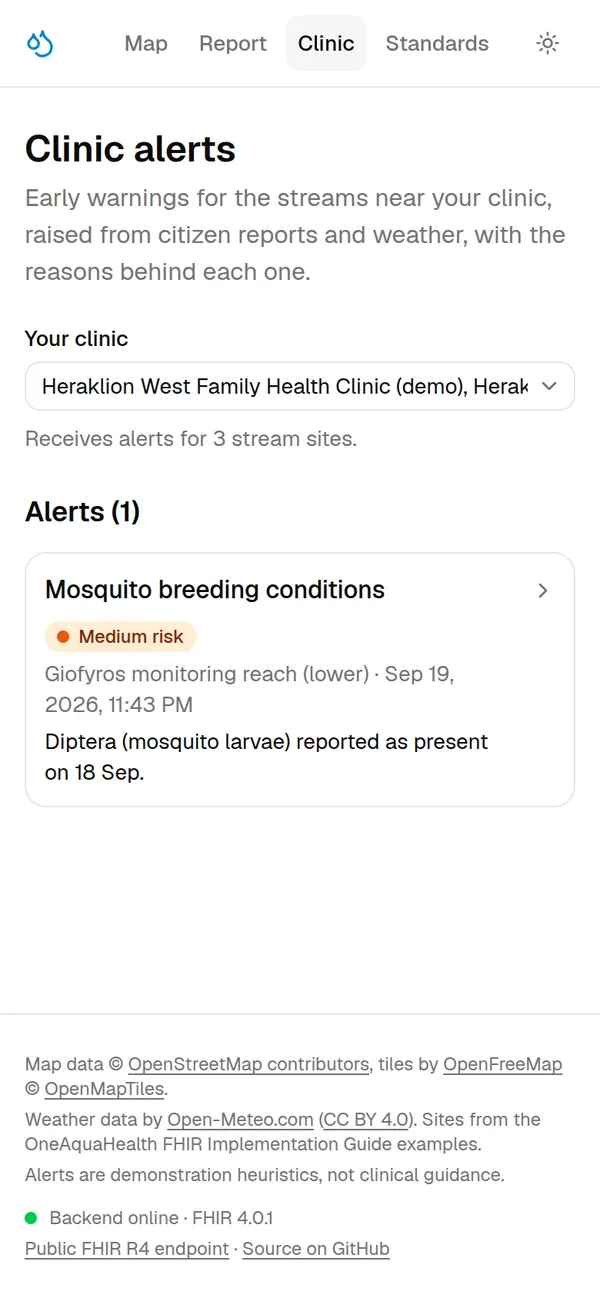
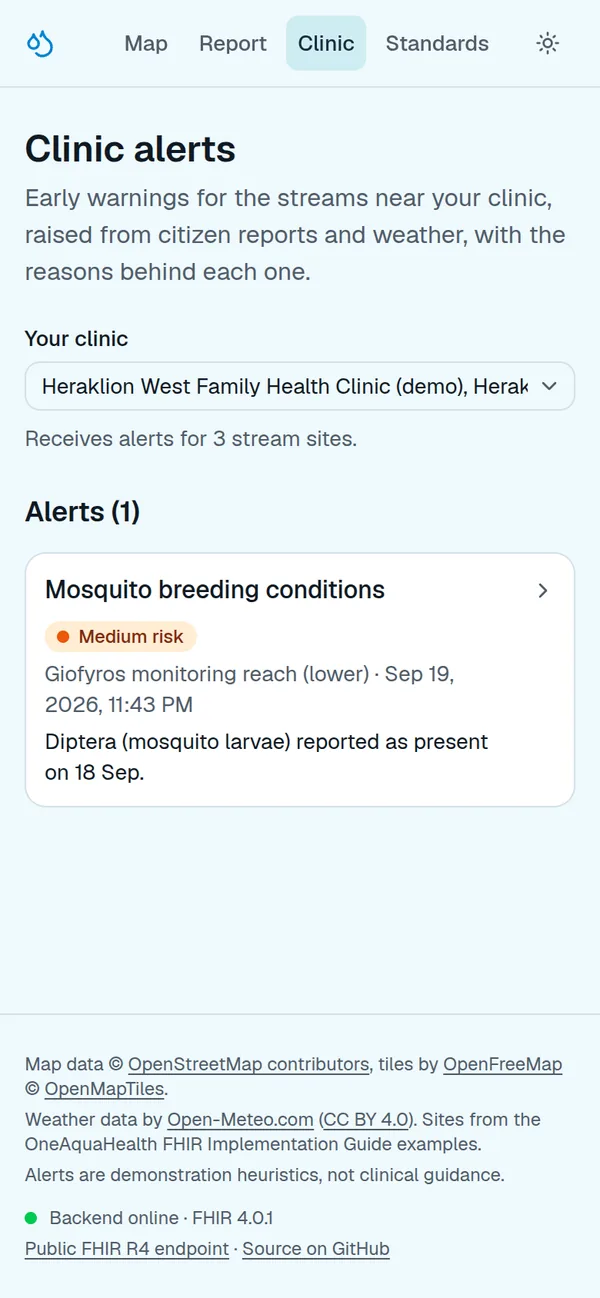
Use one colourful basemap and a softer page palette
The dark basemap and the muted grey styles lost the greenery and water
that make a river-health map readable. Use OpenFreeMap "liberty" in both
app themes, keep the controls and marker labels light on top of it, and
drop country and capital labels from bold to regular at 85% size so they
stop competing with the site markers.

Retint the colour tokens on hue 225: a soft water-tinted background with
white cards, and a blue primary instead of near-black. axe still reports
0 violations on all pages in both themes.

diff --git a/web/src/app/globals.css b/web/src/app/globals.css
@@ -52,72 +52,74 @@
 }
 
 :root {
-  --background: oklch(1 0 0);
-  --foreground: oklch(0.145 0 0);
+  /* Soft water-tinted neutrals: the page reads as a calm backdrop and cards,
+     which stay white, lift off it. Hue 225 throughout so tints never clash. */
+  --background: oklch(0.975 0.012 225);
+  --foreground: oklch(0.21 0.025 250);
   --card: oklch(1 0 0);
-  --card-foreground: oklch(0.145 0 0);
+  --card-foreground: oklch(0.21 0.025 250);
   --popover: oklch(1 0 0);
-  --popover-foreground: oklch(0.145 0 0);
-  --primary: oklch(0.205 0 0);
-  --primary-foreground: oklch(0.985 0 0);
-  --secondary: oklch(0.97 0 0);
-  --secondary-foreground: oklch(0.205 0 0);
-  --muted: oklch(0.97 0 0);
-  --muted-foreground: oklch(0.556 0 0);
-  --accent: oklch(0.97 0 0);
-  --accent-foreground: oklch(0.205 0 0);
-  --destructive: oklch(0.577 0.245 27.325);
-  --border: oklch(0.922 0 0);
-  --input: oklch(0.922 0 0);
-  --ring: oklch(0.708 0 0);
-  --chart-1: oklch(0.87 0 0);
-  --chart-2: oklch(0.556 0 0);
-  --chart-3: oklch(0.439 0 0);
-  --chart-4: oklch(0.371 0 0);
-  --chart-5: oklch(0.269 0 0);
+  --popover-foreground: oklch(0.21 0.025 250);
+  --primary: oklch(0.52 0.105 228);
+  --primary-foreground: oklch(0.99 0.005 225);
+  --secondary: oklch(0.945 0.018 225);
+  --secondary-foreground: oklch(0.3 0.035 248);
+  --muted: oklch(0.95 0.014 225);
+  --muted-foreground: oklch(0.47 0.025 248);
+  --accent: oklch(0.925 0.032 210);
+  --accent-foreground: oklch(0.28 0.04 248);
+  --destructive: oklch(0.55 0.21 27);
+  --border: oklch(0.9 0.016 228);
+  --input: oklch(0.9 0.016 228);
+  --ring: oklch(0.62 0.09 228);
+  --chart-1: oklch(0.62 0.11 228);
+  --chart-2: oklch(0.55 0.02 248);
+  --chart-3: oklch(0.44 0.02 248);
+  --chart-4: oklch(0.37 0.02 248);
+  --chart-5: oklch(0.27 0.02 248);
   --radius: 0.625rem;
-  --sidebar: oklch(0.985 0 0);
-  --sidebar-foreground: oklch(0.145 0 0);
-  --sidebar-primary: oklch(0.205 0 0);
-  --sidebar-primary-foreground: oklch(0.985 0 0);
-  --sidebar-accent: oklch(0.97 0 0);
-  --sidebar-accent-foreground: oklch(0.205 0 0);
-  --sidebar-border: oklch(0.922 0 0);
-  --sidebar-ring: oklch(0.708 0 0);
+  --sidebar: oklch(0.975 0.012 225);
+  --sidebar-foreground: oklch(0.21 0.025 250);
+  --sidebar-primary: oklch(0.52 0.105 228);
+  --sidebar-primary-foreground: oklch(0.99 0.005 225);
+  --sidebar-accent: oklch(0.945 0.018 225);
+  --sidebar-accent-foreground: oklch(0.3 0.035 248);
+  --sidebar-border: oklch(0.9 0.016 228);
+  --sidebar-ring: oklch(0.62 0.09 228);
 }
 
 [data-theme="dark"] {
-  --background: oklch(0.145 0 0);
-  --foreground: oklch(0.985 0 0);
-  --card: oklch(0.205 0 0);
-  --card-foreground: oklch(0.985 0 0);
-  --popover: oklch(0.205 0 0);
-  --popover-foreground: oklch(0.985 0 0);
-  --primary: oklch(0.922 0 0);
-  --primary-foreground: oklch(0.205 0 0);
-  --secondary: oklch(0.269 0 0);
-  --secondary-foreground: oklch(0.985 0 0);
-  --muted: oklch(0.269 0 0);
-  --muted-foreground: oklch(0.708 0 0);
-  --accent: oklch(0.269 0 0);
-  --accent-foreground: oklch(0.985 0 0);
-  --destructive: oklch(0.704 0.191 22.216);
-  --border: oklch(1 0 0 / 10%);
-  --input: oklch(1 0 0 / 15%);
-  --ring: oklch(0.556 0 0);
-  --chart-1: oklch(0.87 0 0);
-  --chart-2: oklch(0.556 0 0);
-  --chart-3: oklch(0.439 0 0);
-  --chart-4: oklch(0.371 0 0);
-  --chart-5: oklch(0.269 0 0);
-  --sidebar: oklch(0.205 0 0);
-  --sidebar-foreground: oklch(0.985 0 0);
-  --sidebar-primary: oklch(0.488 0.243 264.376);
-  --sidebar-primary-foreground: oklch(0.985 0 0);
-  --sidebar-accent: oklch(0.269 0 0);
-  --sidebar-accent-foreground: oklch(0.985 0 0);
-  --sidebar-border: oklch(1 0 0 / 10%);
-  --sidebar-ring: oklch(0.556 0 0);
+  --background: oklch(0.175 0.018 250);
+  --foreground: oklch(0.97 0.006 240);
+  --card: oklch(0.228 0.02 250);
+  --card-foreground: oklch(0.97 0.006 240);
+  --popover: oklch(0.228 0.02 250);
+  --popover-foreground: oklch(0.97 0.006 240);
+  --primary: oklch(0.74 0.105 225);
+  --primary-foreground: oklch(0.19 0.03 250);
+  --secondary: oklch(0.29 0.024 250);
+  --secondary-foreground: oklch(0.97 0.006 240);
+  --muted: oklch(0.29 0.024 250);
+  --muted-foreground: oklch(0.73 0.02 245);
+  --accent: oklch(0.32 0.035 235);
+  --accent-foreground: oklch(0.97 0.006 240);
+  --destructive: oklch(0.7 0.19 22);
+  --border: oklch(1 0 0 / 12%);
+  --input: oklch(1 0 0 / 16%);
+  --ring: oklch(0.6 0.07 228);
+  --chart-1: oklch(0.72 0.11 228);
+  --chart-2: oklch(0.6 0.02 245);
+  --chart-3: oklch(0.5 0.02 245);
+  --chart-4: oklch(0.4 0.02 245);
+  --chart-5: oklch(0.3 0.02 245);
+  --sidebar: oklch(0.228 0.02 250);
+  --sidebar-foreground: oklch(0.97 0.006 240);
+  --sidebar-primary: oklch(0.74 0.105 225);
+  --sidebar-primary-foreground: oklch(0.19 0.03 250);
+  --sidebar-accent: oklch(0.29 0.024 250);
+  --sidebar-accent-foreground: oklch(0.97 0.006 240);
+  --sidebar-border: oklch(1 0 0 / 12%);
+  --sidebar-ring: oklch(0.6 0.07 228);
 }
 
 @layer base {
@@ -148,36 +150,4 @@
     transition-duration: 0.01ms !important;
     scroll-behavior: auto !important;
   }
-}
-/* MapLibre ships light-only chrome. Recolour its controls, attribution bar and
-   two-finger gesture hint from the app's tokens so the dark map has no white box.
-   The selectors match MapLibre's own two-class specificity, since its stylesheet
-   is imported from the map component and lands after this file. */
-[data-theme="dark"] .maplibregl-ctrl-group {
-  background: var(--card);
-}
-[data-theme="dark"] .maplibregl-ctrl-group button + button {
-  border-top-color: var(--border);
-}
-[data-theme="dark"] .maplibregl-ctrl-group button:not(:disabled):hover {
-  background: var(--muted);
-}
-[data-theme="dark"] .maplibregl-ctrl-group button .maplibregl-ctrl-icon {
-  filter: invert(1);
-}
-[data-theme="dark"] .maplibregl-ctrl.maplibregl-ctrl-attrib,
-[data-theme="dark"] .maplibregl-ctrl-attrib.maplibregl-compact {
-  background-color: color-mix(in oklch, var(--background) 80%, transparent);
-  color: var(--muted-foreground);
-}
-[data-theme="dark"] .maplibregl-ctrl-attrib a {
-  color: var(--foreground);
-}
-[data-theme="dark"] .maplibregl-ctrl-attrib.maplibregl-compact::after,
-[data-theme="dark"] .maplibregl-ctrl-attrib-button {
-  filter: invert(1);
-}
-[data-theme="dark"] .maplibregl-cooperative-gesture-screen {
-  background: color-mix(in oklch, var(--background) 70%, transparent);
-  color: var(--foreground);
 }

diff --git a/web/src/components/map/site-map.tsx b/web/src/components/map/site-map.tsx
@@ -14,11 +14,10 @@ import MapGL, {
 } from "react-map-gl/maplibre";
 import { MaximizeIcon } from "lucide-react";
 import { RISK } from "@/lib/format";
-import { useTheme } from "@/hooks/use-theme";
 import type { SiteSummary } from "@/lib/types";
 import { cn } from "@/lib/utils";
 import { clusterSites, type SiteCluster } from "./cluster";
-import { STYLE_URL, applyOneLanguageLabels } from "./map-style";
+import { STYLE_URL, applyLabelStyle } from "./map-style";
 
 // Copied into public/ by scripts/copy-maplibre-worker.mjs; the bundled default URL does not resolve.
 setWorkerUrl(`/maplibre/${getVersion()}/maplibre-gl-worker.mjs`);
@@ -46,7 +45,6 @@ export default function SiteMap({ sites, selectedId, onSelect }: Props) {
   const [map, setMap] = useState<MapRef | null>(null);
   // Clustering depends on scale only, so the markers are recomputed on zoom, not on every pan frame.
   const [zoom, setZoom] = useState<number | null>(null);
-  const theme = useTheme();
   const selected = sites.find((s) => s.id === selectedId);
 
   const clusters = useMemo(
@@ -86,7 +84,7 @@ export default function SiteMap({ sites, selectedId, onSelect }: Props) {
     <MapGL
       ref={setMap}
       initialViewState={initialViewState}
-      mapStyle={STYLE_URL[theme]}
+      mapStyle={STYLE_URL}
       style={{ width: "100%", height: "100%" }}
       minZoom={2}
       maxZoom={16}
@@ -97,9 +95,9 @@ export default function SiteMap({ sites, selectedId, onSelect }: Props) {
       cooperativeGestures={typeof window !== "undefined" && window.matchMedia("(pointer: coarse)").matches}
       onLoad={(event: MapEvent) => {
         setZoom(event.target.getZoom());
-        applyOneLanguageLabels(event.target);
+        applyLabelStyle(event.target);
       }}
-      onStyleData={(event: MapStyleDataEvent) => applyOneLanguageLabels(event.target)}
+      onStyleData={(event: MapStyleDataEvent) => applyLabelStyle(event.target)}
       onZoom={(event: ViewStateChangeEvent) => setZoom(event.viewState.zoom)}
     >
       <NavigationControl position="top-right" showCompass={false} />
@@ -109,7 +107,7 @@ export default function SiteMap({ sites, selectedId, onSelect }: Props) {
         <button
           type="button"
           onClick={fitAll}
-          className="absolute top-2 left-2 inline-flex items-center gap-1.5 rounded-lg border bg-background/90 px-2 py-1.5 text-xs font-medium shadow-sm backdrop-blur transition-colors hover:bg-background focus-visible:ring-3 focus-visible:ring-ring/50 focus-visible:outline-none"
+          className="absolute top-2 left-2 inline-flex items-center gap-1.5 rounded-lg border border-slate-300 bg-white/90 px-2 py-1.5 text-xs font-medium text-slate-900 shadow-sm backdrop-blur transition-colors hover:bg-white focus-visible:ring-3 focus-visible:ring-sky-500/50 focus-visible:outline-none"
         >
           <MaximizeIcon className="size-3.5" aria-hidden />
           All sites
@@ -156,7 +154,7 @@ export default function SiteMap({ sites, selectedId, onSelect }: Props) {
               </button>
               {showLabel && (
                 <span
-                  className="pointer-events-none absolute top-1/2 left-full ml-2 -translate-y-1/2 rounded-md bg-background/85 px-1.5 py-0.5 text-xs font-medium whitespace-nowrap shadow-sm backdrop-blur-[2px]"
+                  className="pointer-events-none absolute top-1/2 left-full ml-2 -translate-y-1/2 rounded-md bg-white/85 px-1.5 py-0.5 text-xs font-medium text-slate-900 whitespace-nowrap shadow-sm backdrop-blur-[2px]"
                   aria-hidden
                 >
                   {cluster.sites[0].name}

diff --git a/web/src/components/map/map-style.ts b/web/src/components/map/map-style.ts
@@ -1,12 +1,8 @@
 import type { ExpressionSpecification, Map as MapLibreMap } from "maplibre-gl";
-import type { Theme } from "@/lib/theme";
 
-// OpenFreeMap's two minimal basemaps: no points of interest, muted colours, so the
-// site markers and risk colours stay the loudest thing on the map.
-export const STYLE_URL: Record<Theme, string> = {
-  light: "https://tiles.openfreemap.org/styles/positron",
-  dark: "https://tiles.openfreemap.org/styles/dark",
-};
+// One basemap for both app themes: Liberty keeps the green of parks and forests
+// and the blue of rivers and sea, which is the point of a river-health map.
+export const STYLE_URL = "https://tiles.openfreemap.org/styles/liberty";
 
 // The shipped styles label places as "Ηράκλειο\nIraklio": the latin name and the
 // local-script name stacked. One language is enough here, and English first.
@@ -18,18 +14,42 @@ const LATIN_NAME: ExpressionSpecification = [
 ];
 const LATIN_NAME_JSON = JSON.stringify(LATIN_NAME);
 
-export function applyOneLanguageLabels(map: MapLibreMap) {
+// Liberty sets country and capital labels in bold at up to 17px, which shouts over
+// the site markers. Regular weight at 85% keeps them readable but in the background.
+const BOLD_FONT = "Noto Sans Bold";
+const REGULAR_FONT = ["Noto Sans Regular"];
+const LABEL_SCALE = 0.85;
+
+export function applyLabelStyle(map: MapLibreMap) {
   const style = map.getStyle();
   if (!style?.layers) return;
 
   for (const layer of style.layers) {
     if (layer.type !== "symbol") continue;
-    const textField = layer.layout?.["text-field"];
-    if (!textField) continue;
-    const current = JSON.stringify(textField);
+    const layout = layer.layout;
+    if (!layout) continue;
+
+    const textField = layout["text-field"];
     // Only the bilingual name labels; road shields and house numbers are left alone,
     // and our own replacement has no "name:nonlatin", so this never loops.
-    if (!current.includes("name:nonlatin") || current === LATIN_NAME_JSON) continue;
-    map.setLayoutProperty(layer.id, "text-field", LATIN_NAME);
+    if (textField) {
+      const current = JSON.stringify(textField);
+      if (current.includes("name:nonlatin") && current !== LATIN_NAME_JSON) {
+        map.setLayoutProperty(layer.id, "text-field", LATIN_NAME);
+      }
+    }
+
+    // As unknown: narrowing text-font in place makes TypeScript expand its union.
+    const font: unknown = layout["text-font"];
+    // Swapping the font away from bold is also the guard: on a repeat call (every
+    // styledata event) the layer no longer matches, so the size is scaled once.
+    if (!Array.isArray(font) || !font.includes(BOLD_FONT)) continue;
+    map.setLayoutProperty(layer.id, "text-font", REGULAR_FONT);
+    const textSize = layout["text-size"];
+    if (textSize === undefined) continue;
+    // Multiplying keeps whatever zoom curve the style author wrote; the cast is
+    // needed because text-size is a union wide enough to defeat inference.
+    const scaled: unknown = ["*", textSize as unknown, LABEL_SCALE];
+    map.setLayoutProperty(layer.id, "text-size", scaled as ExpressionSpecification);
   }
 }

diff --git a/web/src/components/map/map-dashboard.tsx b/web/src/components/map/map-dashboard.tsx
@@ -92,7 +92,7 @@ function Legend({ sites }: { sites: SiteSummary[] }) {
   const count = (level: RiskLevel) => sites.filter((s) => s.riskLevel === level).length;
   return (
     // bottom-9 on phones keeps it off the full-width map attribution bar.
-    <div className="pointer-events-none absolute bottom-9 left-2 rounded-lg border bg-background/90 p-2 text-xs shadow-sm backdrop-blur sm:bottom-2">
+    <div className="pointer-events-none absolute bottom-9 left-2 rounded-lg border border-slate-300 bg-white/90 p-2 text-xs text-slate-900 shadow-sm backdrop-blur sm:bottom-2">
       <p className="mb-1 font-medium">Sites by risk</p>
       <ul className="flex gap-2.5 sm:block sm:space-y-0.5">
         {RISK_LEVELS.map((level) => (
@@ -103,7 +103,7 @@ function Legend({ sites }: { sites: SiteSummary[] }) {
               aria-hidden
             />
             <span className="tabular-nums">{count(level)}</span>
-            <span className="hidden text-muted-foreground sm:inline">{RISK[level].label.toLowerCase()}</span>
+            <span className="hidden text-slate-600 sm:inline">{RISK[level].label.toLowerCase()}</span>
           </li>
         ))}
       </ul>

diff --git a/web/src/components/site-header.tsx b/web/src/components/site-header.tsx
@@ -45,8 +45,8 @@ export function SiteHeader() {
                     href={href}
                     aria-current={active ? "page" : undefined}
                     className={cn(
-                      "inline-flex h-9 items-center rounded-md px-2 text-sm sm:px-3 font-medium transition-colors hover:bg-muted focus-visible:ring-3 focus-visible:ring-ring/50 focus-visible:outline-none",
-                      active ? "bg-muted text-foreground" : "text-muted-foreground",
+                      "inline-flex h-9 items-center rounded-md px-2 text-sm sm:px-3 font-medium transition-colors hover:bg-accent focus-visible:ring-3 focus-visible:ring-ring/50 focus-visible:outline-none",
+                      active ? "bg-accent text-accent-foreground" : "text-muted-foreground",
                     )}
                   >
                     {label}

diff --git a/docs/ARCHITECTURE.md b/docs/ARCHITECTURE.md
@@ -35,9 +35,9 @@ HAPI ── rest-hook Subscription (internal network) ──► API /hooks/obser
 |---|---|---|---|
 | Frontend framework | Next.js (App Router) | 16.3 | Hosted on Vercel Hobby, root directory `web/` |
 | UI runtime | React | 19.2 | Version pinned by Next.js |
-| Styling | Tailwind CSS | 4 | Light and dark themes chosen by the user: `data-theme` on `<html>` drives the tokens and the `dark:` variant, an inline script in the root layout applies the saved choice before the first paint, and "system" follows the OS. Preference in `localStorage`, toggle in the header (`src/lib/theme.ts`, `src/hooks/use-theme.ts`) |
+| Styling | Tailwind CSS | 4 | Soft water-tinted background with white cards (all tokens on hue 225). Light and dark themes chosen by the user: `data-theme` on `<html>` drives the tokens and the `dark:` variant, an inline script in the root layout applies the saved choice before the first paint, and "system" follows the OS. Preference in `localStorage`, toggle in the header (`src/lib/theme.ts`, `src/hooks/use-theme.ts`) |
 | UI components | shadcn/ui (`base-nova`, Base UI primitives) + lucide icons | CLI 4.21 | Copied into `web/src/components/ui`; `cn` package for class merging |
-| Maps | MapLibre GL + `react-map-gl/maplibre` + OpenFreeMap `positron` / `dark` tiles | 6.10 / 8.1 | No API key; OSM attribution shown. The basemap follows the app theme (the two minimal OpenFreeMap styles, no points of interest). Place labels ship as "latin\nlocal script"; `map-style.ts` rewrites every `text-field` to one language (`name:en` → `name:latin` → `name`). Sites closer together than 44 px at the current zoom are drawn as one counted cluster marker (`cluster.ts`) so nearby sites cannot hide each other; markers are recomputed on zoom, not on every pan frame. Two-finger gestures on touch devices. MapLibre 6 finds its worker via `import.meta.url`, which bundling breaks, so `scripts/copy-maplibre-worker.mjs` copies it to `public/maplibre/<version>/` before `dev`/`build` |
+| Maps | MapLibre GL + `react-map-gl/maplibre` + OpenFreeMap `liberty` tiles | 6.10 / 8.1 | No API key; OSM attribution shown. One colourful basemap in both app themes, so water and vegetation stay recognisable on a river-health map; the controls and labels drawn over it are light in both themes. Country and capital labels are dropped from bold to regular at 85% size so the site markers stay dominant (`map-style.ts`). Place labels ship as "latin\nlocal script"; `map-style.ts` rewrites every `text-field` to one language (`name:en` → `name:latin` → `name`). Sites closer together than 44 px at the current zoom are drawn as one counted cluster marker (`cluster.ts`) so nearby sites cannot hide each other; markers are recomputed on zoom, not on every pan frame. Two-finger gestures on touch devices. MapLibre 6 finds its worker via `import.meta.url`, which bundling breaks, so `scripts/copy-maplibre-worker.mjs` copies it to `public/maplibre/<version>/` before `dev`/`build` |
 | Charts | Recharts | 3.10 | Site trend charts |
 | PWA | Serwist (`@serwist/turbopack` + `serwist`) | 9.5 | Linked from the Next.js PWA guide (Turbopack variant; `next-pwa` is abandoned). `app/sw.ts` is bundled with esbuild and served at `/serwist/sw.js`; precaches the app shell and `/report`, caches API reads network-first, and serves `/~offline` for unvisited pages. Manifest from `app/manifest.ts`, icons from `scripts/make-icons.mjs` |
 | Offline report queue | `idb-keyval` | 6.3 | Reports made offline wait in IndexedDB and are sent on the `online` event or the next app load; no Background Sync dependency |

diff --git a/docs/PLAN.md b/docs/PLAN.md
@@ -10,7 +10,7 @@ Tech stack, infrastructure and deployment are described in [ARCHITECTURE.md](ARC
 - **Done:** Stages 0–7, and the Stage 8 documents (README, SUBMISSION.md, DEMO_SCRIPT.md). Installable PWA with offline report queue, report photos (`Media` + `Binary`), alert narrative, FHIR rest-hook Subscription, accessibility pass, code-review fixes. Everything is live.
 - **Validation:** CI checks resources from the real API code against the OAH IG: 0 errors.
 - **Next (user):** record the demo video from [DEMO_SCRIPT.md](DEMO_SCRIPT.md), add its link to [SUBMISSION.md](SUBMISSION.md), submit on Devpost before Sep 30, 9:00 PM PDT.
-- **Also done:** site FHIR `Bundle` export, a `/standards` page for judges, and a UI pass on the map and themes (Stage 7).
+- **Also done:** site FHIR `Bundle` export, a `/standards` page for judges, and a UI pass on the map, themes and colours (Stage 7).
 - **Optional if time remains:** SMART on FHIR launch; review leftovers: alert reason dates in UTC, 200-item cap on alert/communication lists.
 - **Live:** frontend https://stream-to-clinic.vercel.app · API https://oneaquahealth.duckdns.org · FHIR https://oneaquahealth.duckdns.org/fhir/metadata
 - **Demo note:** the algal-bloom rule needs a dry week. For the video, the API accepts an optional `WEATHER_OVERRIDE` env var (e.g. `{"rain24h":0,"rain7d":1.2}`); alert reasons then say "demo weather override". Production uses real Open-Meteo weather.
@@ -131,7 +131,8 @@ Sites come from the OAH IG examples only (European OAH sites; no other regions).
 - [x] Should-haves in order: alert narrative, photos, FHIR Subscription
 - [x] Realistic demo dataset (refreshed daily) and bug fixing (code review: pH label, stale alerts, closed-alert status, clock skew, photo CORS)
 - [x] Theme toggle: light, dark or follow the system, applied before the first paint
-- [x] Map pass: minimal theme-aware basemap, place labels in one language, clustering so nearby sites stop hiding each other, named markers, risk-count legend, fit-all control, two-finger gestures on phones
+- [x] Map pass: colourful basemap (water and vegetation kept), place labels in one language, quieter country labels, clustering so nearby sites stop hiding each other, named markers, risk-count legend, fit-all control, two-finger gestures on phones
+- [x] Colour pass: soft water-tinted page background with white cards, so the app reads as welcoming rather than flat grey
 
 ### Stage 8: Submission (Sep 28–30)
 - [x] README: architecture diagram, screenshots, one-command setup

diff --git a/docs/SUBMISSION.md b/docs/SUBMISSION.md
@@ -60,7 +60,7 @@ Stream-to-Clinic connects the two with open standards:
 
 ## How we built it
 
-- **Frontend:** Next.js 16, React 19, Tailwind CSS 4, shadcn/ui, MapLibre GL with OpenFreeMap tiles, Recharts; installable PWA with an offline report queue. Light, dark or system theme; a minimal basemap that follows it, place names in one language and nearby sites clustered with a count; axe reports 0 accessibility violations on every page in both themes.
+- **Frontend:** Next.js 16, React 19, Tailwind CSS 4, shadcn/ui, MapLibre GL with OpenFreeMap tiles, Recharts; installable PWA with an offline report queue. Light, dark or system theme; a colourful basemap with place names in one language and nearby sites clustered with a count; axe reports 0 accessibility violations on every page in both themes.
 - **API:** Fastify 5 on Node.js 24 LTS, TypeScript. Maps reports to OAH profiles, runs the risk engine and writes alerts.
 - **FHIR server:** HAPI FHIR JPA Server 8.12 (R4) on PostgreSQL 18, public read-only behind Caddy with automatic HTTPS.
 - **Standards tooling:** SUSHI builds the OAH IG from source at a pinned commit; HL7 `validator_cli` 6.10 validates the application's resources in GitHub Actions.

diff --git a/README.md b/README.md
@@ -51,7 +51,7 @@ Built for the [OneAquaHealth IEEE Global Hackathon](https://oneaquahealth-ieee-h
 | ✅ **Validated in CI** | Every resource the API produces is checked against the OAH IG; the build fails on a profile error |
 | 🔎 **Explainable, not magic** | Four documented rules with configurable thresholds — no black-box model |
 | 📴 **Works offline** | Installable PWA; reports queue in IndexedDB and send themselves when the connection returns |
-| 🗺 **Readable map** | Minimal basemap that follows the theme, place names in one language, nearby sites clustered with a count |
+| 🗺 **Readable map** | Colourful basemap, place names in one language, quieter country labels, nearby sites clustered with a count |
 | 🌓 **Light / dark / system** | Theme toggle applied before the first paint, no flash |
 | ♿ **Accessible** | axe: 0 violations on every page, in both themes |
 | 📦 **Open data** | Download any site as a FHIR `collection` Bundle |
